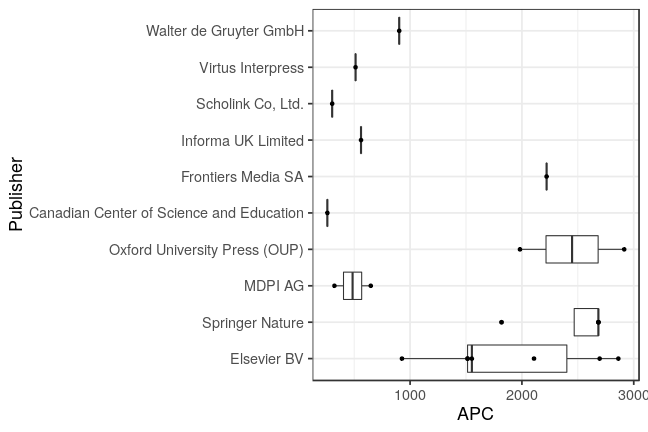
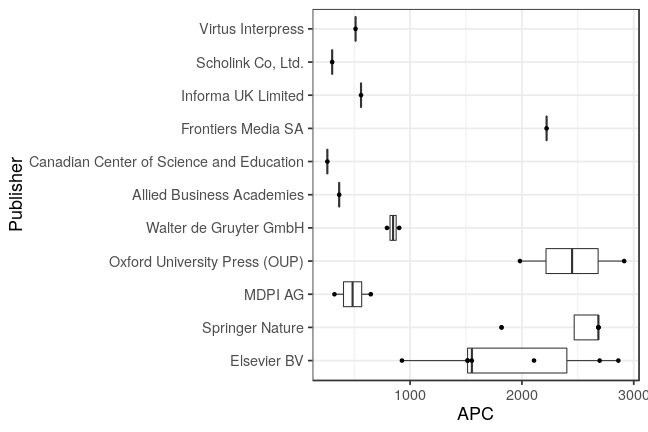
update: bozen joins openapc

diff --git a/_posts/2019-04-02-bozen.md b/_posts/2019-04-02-bozen.md
@@ -23,7 +23,7 @@ The initial dataset contributed by the University of Bozen-Bolzano contains info
 
 
 
-The data covers publication fees for 21 articles. Total expenditure amounts to 33 672€ and the average fee is 1 603€.
+The data covers publication fees for 23 articles. Total expenditure amounts to 34 831€ and the average fee is 1 514€.
 
 The following table and plots show the payments the university has made to publishers in 2018 and 2019.
 
@@ -34,12 +34,13 @@ The following table and plots show the payments the university has made to publi
 |Springer Nature                          |        4|              9870|          2467|
 |MDPI AG                                  |        2|               972|           486|
 |Oxford University Press (OUP)            |        2|              4897|          2449|
+|Walter de Gruyter GmbH                   |        2|              1696|           848|
+|Allied Business Academies                |        1|               366|           366|
 |Canadian Center of Science and Education |        1|               260|           260|
 |Frontiers Media SA                       |        1|              2221|          2221|
 |Informa UK Limited                       |        1|               561|           561|
 |Scholink Co, Ltd.                        |        1|               303|           303|
 |Virtus Interpress                        |        1|               512|           512|
-|Walter de Gruyter GmbH                   |        1|               903|           903|
 
 ### Fees paid per publisher (in EURO)
 
